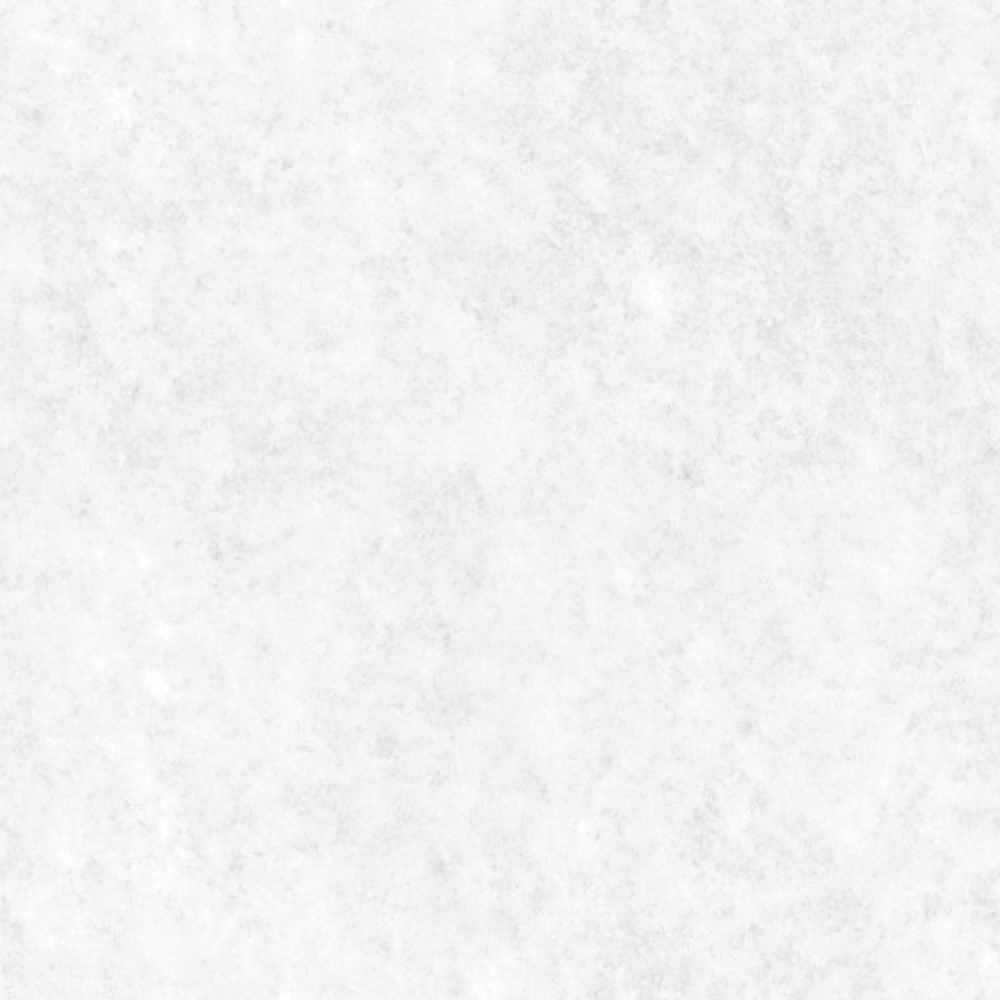
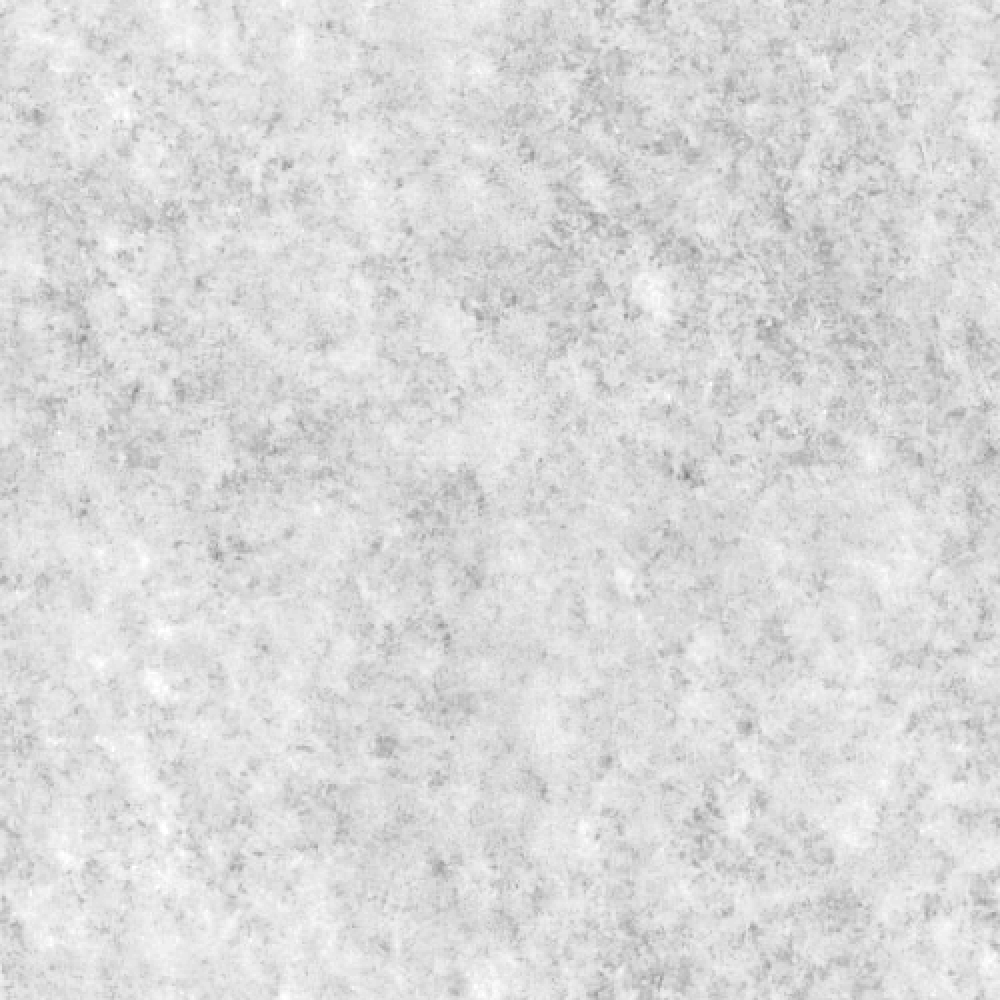
Removed blend modes from bottom section due to compatibility issues in some browsers.  Replaced with opacity and source image tweaks

diff --git a/src/containers/App.tsx b/src/containers/App.tsx
@@ -223,7 +223,8 @@ class App extends Component<AppProps, AppState> {
               </TopRow>
 
               <BottomSection>
-                <BottomSectionBGPattern />
+                <BottomSectionBackground />
+
                 <BottomSectionContent>
                   <MainControls
                     chordKey={this.state.chordKey}
@@ -274,10 +275,9 @@ body{
 const Wrapper = styled.div`
   width: 100vw;
   height: 100%;
-  /* margin-left: auto; */
-  /* margin-right: auto; */
   background-image: url('images/backgrounds/paper.png');
   background-size: calc(500px * 1.5) calc(593px * 1.5);
+  background-position: center;
 `
 const Inner = styled.div`
   height: 100%;
@@ -305,7 +305,6 @@ const TopRow = styled.div`
   width: 100%;
 `
 const StaffWrapper = styled.div`
-  /* width: 100%; */
   margin-left: auto;
   margin-right: auto;
 `
@@ -313,16 +312,30 @@ const BottomSection = styled.div`
   height: 100%;
   background-color: blue;
   clip-path: polygon(0% 70px, 100% 0%, 100% 100%, 0% 100%);
-  background-image: linear-gradient(to bottom right, #3565dd, #87cbf0);
 `
-const BottomSectionBGPattern = styled.div`
+
+const BottomSectionBackground = styled.div`
   position: absolute;
   top: 0px;
-  background-image: url('images/backgrounds/snow.png');
-  mix-blend-mode: multiply;
   width: 100%;
   height: 100%;
+  background: url('images/backgrounds/snow.png');
+  background-size: auto;
+  background-position: center;
+  filter: brightness(80%) contrast(180%);
+
+  &:before {
+    content: '';
+    position: absolute;
+    top: 0;
+    right: 0;
+    bottom: 0;
+    left: 0;
+    background-image: linear-gradient(to bottom right, #3565dd, #b4e7ff);
+    opacity: 0.88;
+  }
 `
+
 const BottomSectionContent = styled.div`
   padding-top: 70px;
 `

diff --git a/src/ui/Dropdown.tsx b/src/ui/Dropdown.tsx
@@ -126,9 +126,10 @@ const Selection = styled.div`
   flex-direction: column;
   justify-content: center;
   padding-left: 14px;
+  font-size: 16px;
 `
 
-const optionItemHeight = 35
+const optionItemHeight = 40
 const OptionPanelWrapper = styled.div<any>`
   position: absolute;
   z-index: 1;
@@ -150,6 +151,7 @@ const Option = styled.div`
   flex-direction: column;
   justify-content: center;
   padding-left: 14px;
+  font-size: 16px;
   &:hover {
     background-color: ${props => props.theme.primaryVeryLight};
   }
